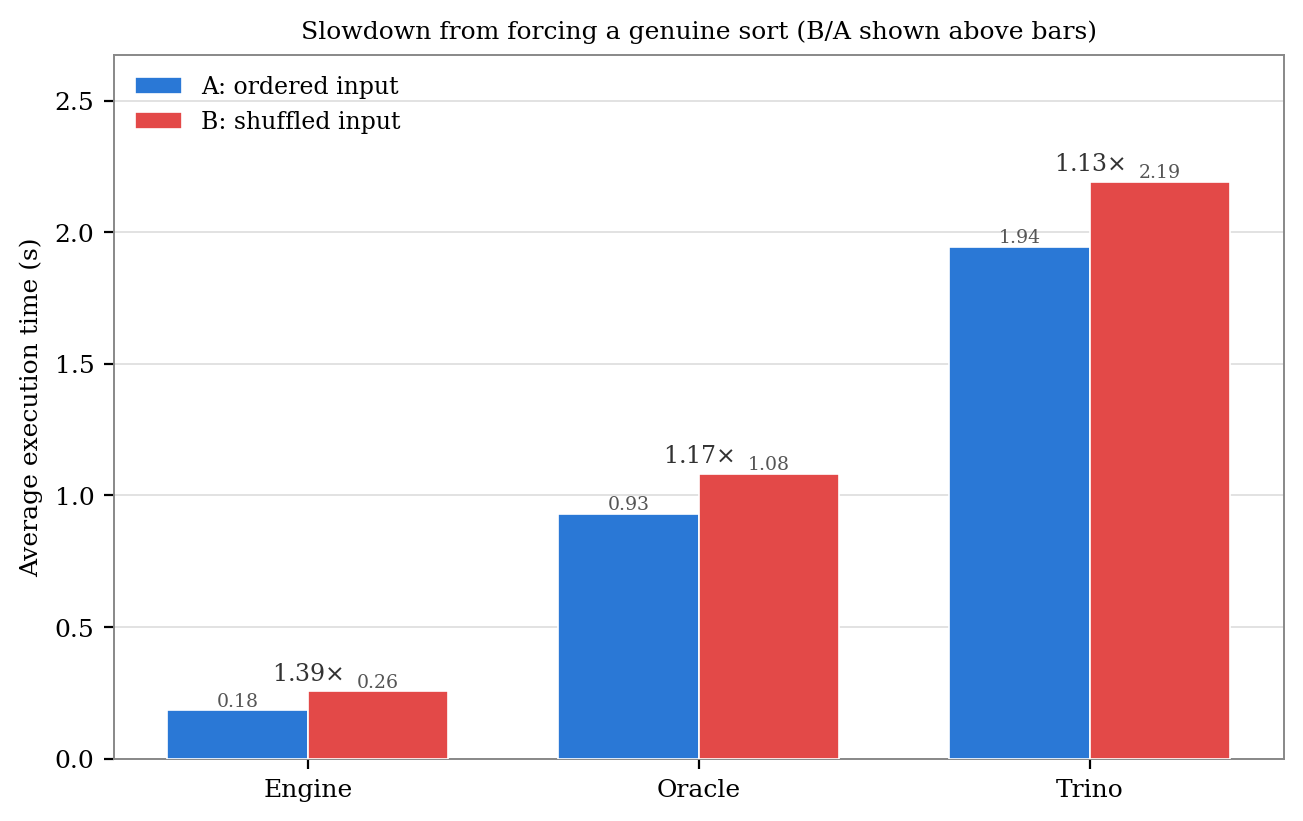
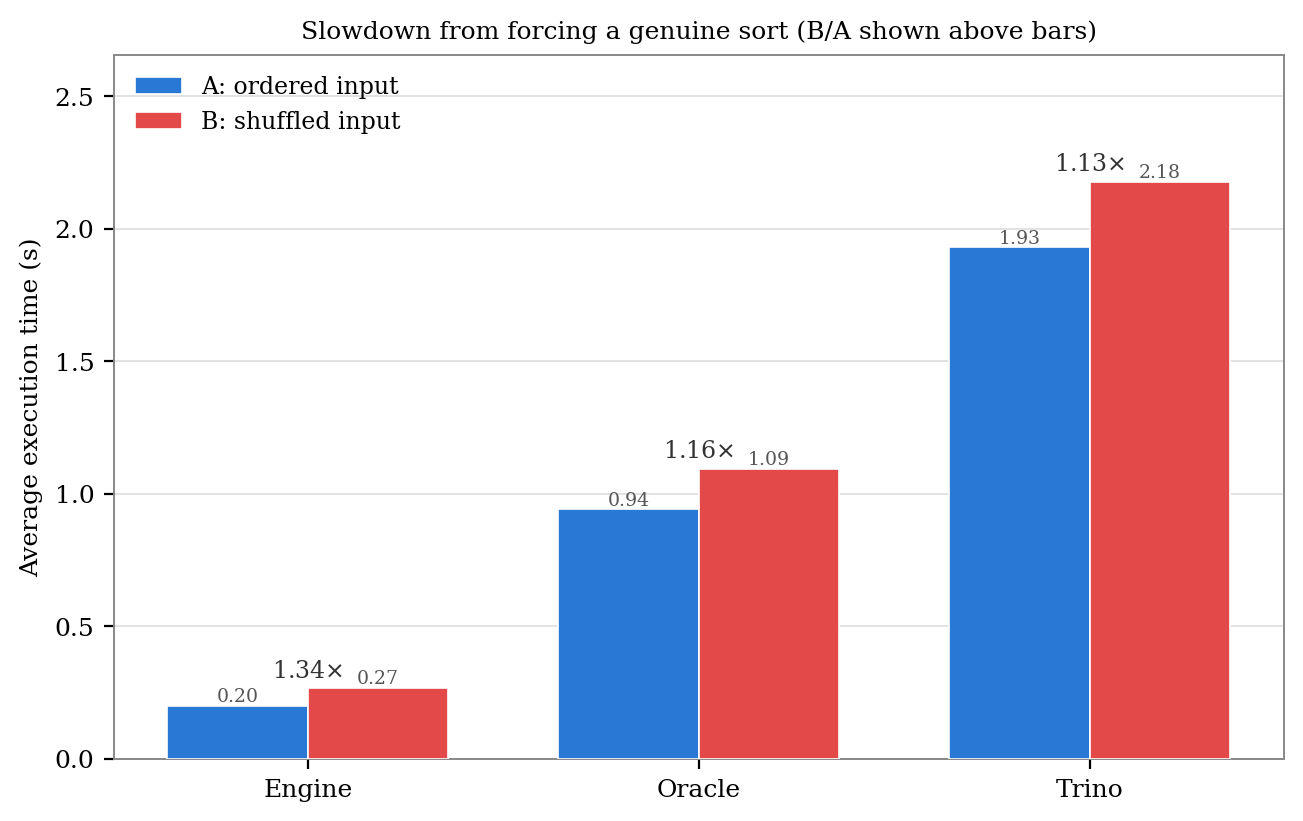
ch 1-3

diff --git a/thesis/Abstract.tex b/thesis/Abstract.tex
@@ -1,4 +1,4 @@
-SQL:2016 introduced the \texttt{MATCH\_RECOGNIZE} clause to support row pattern recognition, used to search for a specific pattern in ordered partitions of rows using regular expressions, which allows data analysts to detect patterns according to a user-defined pattern. This capability matters in many domains, such as financial monitoring, climate analysis, security logs, sensor analytics, and e-commerce, where significant information often consists of a sequence of events rather than an isolated record. Several database systems, including Oracle, Snowflake, Trino, and Apache Flink, now provide row pattern recognition, but Pandas lacks native support, so analysts often simulate \texttt{MATCH\_RECOGNIZE} with shifted columns, manual loops, and custom state management, which makes the code longer, less readable, and more error-prone. To close this gap, the proposed engine parses SQL-based \texttt{MATCH\_RECOGNIZE} queries from a string, constructs a structured query representation, validates the supported row-pattern clauses, translates pattern expressions into finite automata, and executes the resulting matcher over ordered DataFrame partitions, covering the evaluated Feature~R010-style scope: \texttt{PARTITION BY}, \texttt{ORDER BY}, \texttt{PATTERN}, \texttt{DEFINE}, \texttt{MEASURES}, skip policies, output modes, quantifiers, alternation, grouping, anchors, exclusions, \texttt{PERMUTE}, and selected navigation and aggregate functions. The system was evaluated through five methods: correctness against Trino and Oracle reference outputs, SQL:2016 feature coverage, usability, performance, and scalability. The cross-system benchmark used the Amazon UK Products~2023 catalog, from 100\,K-row prefixes up to the full 2.2-million-row dataset; a separate scalability test used the larger Amazon Reviews~2023 corpus, up to 227.9~million rows. The engine reproduced the reference outputs row-for-row in all thirty cross-system benchmark cells and recorded the lowest average execution time of the three compared systems (0.20\,s, versus 1.04\,s for Oracle and 1.98\,s for Trino). Its execution time and memory scaled almost linearly, and it stayed ahead of both databases all the way to 227.9~million rows. These results demonstrate that bringing \texttt{MATCH\_RECOGNIZE}-style functionality to Pandas can bridge SQL and Python workflows, making sequential data analysis more readable, portable, and productive.
+SQL:2016 introduced the \texttt{MATCH\_RECOGNIZE} clause to support row pattern recognition, used to search for a specific pattern in ordered partitions of rows using regular expressions, which allows data analysts to detect patterns according to a user-defined pattern. This capability matters in many domains, such as financial monitoring, climate analysis, security logs, sensor analytics, and e-commerce, where significant information often consists of a sequence of events rather than an isolated record. Several database systems, including Oracle, Snowflake, Trino, and Apache Flink, now provide row pattern recognition, but Pandas lacks native support, so analysts often simulate \texttt{MATCH\_RECOGNIZE} with shifted columns, manual loops, and custom state management, which makes the code longer, less readable, and more error-prone. To close this gap, the proposed engine parses SQL-based \texttt{MATCH\_RECOGNIZE} queries from a string, constructs a structured query representation, validates the supported row-pattern clauses, translates pattern expressions into finite automata, and executes the resulting matcher over ordered DataFrame partitions, covering the evaluated Feature~R010-style scope: \texttt{PARTITION BY}, \texttt{ORDER BY}, \texttt{PATTERN}, \texttt{DEFINE}, \texttt{MEASURES}, skip modes, output modes, quantifiers, alternation, grouping, anchors, exclusions, \texttt{PERMUTE}, and selected navigation and aggregate functions. The system was evaluated through five methods: correctness against Trino and Oracle reference outputs, SQL:2016 feature coverage, usability, performance, and scalability. The cross-system benchmark used the Amazon UK Products~2023 catalog, from 100\,K-row prefixes up to the full 2.2-million-row dataset; a separate scalability test used the larger Amazon Reviews~2023 corpus, up to 227.9~million rows. The engine reproduced the reference outputs row-for-row in all thirty cross-system benchmark cells and recorded the lowest average execution time of the three compared systems (0.20\,s, versus 1.04\,s for Oracle and 1.98\,s for Trino). Its execution time and memory scaled almost linearly, and it stayed ahead of both databases all the way to 227.9~million rows. These results demonstrate that bringing \texttt{MATCH\_RECOGNIZE}-style functionality to Pandas can bridge SQL and Python workflows, making sequential data analysis more readable, portable, and productive.
 
 \vspace{\baselineskip}
 \noindent\textbf{Keywords:} \texttt{MATCH\_RECOGNIZE}; Row Pattern Recognition; Pandas; SQL:2016; Finite Automata; Pattern Matching.

diff --git a/thesis/chapters/appendix_benchmark_tables.tex b/thesis/chapters/appendix_benchmark_tables.tex
@@ -504,9 +504,9 @@ only the sort cost is added.
 \textbf{System} & \textbf{A ordered (s)} & \textbf{B shuffled (s)}
   & \textbf{Slowdown} \\
 \midrule
-Proposed Pandas engine & 0.18 & 0.24 & $1.30\times$ \\
-Trino~473              & 1.94 & 2.19 & $1.13\times$ \\
-Oracle XE~21c          & 0.93 & 1.08 & $1.17\times$ \\
+Proposed Pandas engine & 0.20 & 0.27 & $1.34\times$ \\
+Trino~473              & 1.93 & 2.18 & $1.13\times$ \\
+Oracle XE~21c          & 0.94 & 1.09 & $1.16\times$ \\
 \bottomrule
 \end{tabular}
 \end{table}
@@ -518,7 +518,9 @@ Oracle XE~21c          & 0.93 & 1.08 & $1.17\times$ \\
 \caption{Average execution time by dataset size under ordered
   (Scenario~A, ``ord'') and shuffled (Scenario~B, ``shuf'') input, and
   the per-size slowdown, for each system (averaged over the five
-  pattern families).}
+  pattern families).  Cells near 0.1\,s are noisy; Oracle's 100\,K
+  reading ($0.87\times$) is run-to-run variance, not a real speedup
+  from shuffling.}
 \label{tab:ordering_by_size}
 \resizebox{\textwidth}{!}{%
 \begin{tabular}{rrrrrrrrrr}
@@ -531,12 +533,12 @@ Oracle XE~21c          & 0.93 & 1.08 & $1.17\times$ \\
 & \textbf{ord} & \textbf{shuf} & \textbf{slow}
 & \textbf{ord} & \textbf{shuf} & \textbf{slow} \\
 \midrule
-100{,}000 & 0.02 & 0.03 & 1.25$\times$ & 0.08 & 0.09 & 1.06$\times$ & 0.28 & 0.28 & 1.01$\times$ \\
-200{,}000 & 0.04 & 0.05 & 1.22$\times$ & 0.15 & 0.17 & 1.07$\times$ & 0.36 & 0.40 & 1.10$\times$ \\
-400{,}000 & 0.08 & 0.10 & 1.30$\times$ & 0.34 & 0.38 & 1.12$\times$ & 0.68 & 0.78 & 1.14$\times$ \\
-800{,}000 & 0.16 & 0.21 & 1.30$\times$ & 0.88 & 0.99 & 1.12$\times$ & 1.74 & 1.97 & 1.14$\times$ \\
-1{,}600{,}000 & 0.31 & 0.42 & 1.34$\times$ & 1.77 & 2.08 & 1.17$\times$ & 3.99 & 4.18 & 1.05$\times$ \\
-2{,}222{,}742 & 0.49 & 0.62 & 1.27$\times$ & 2.36 & 2.81 & 1.19$\times$ & 4.62 & 5.55 & 1.20$\times$ \\
+100{,}000 & 0.03 & 0.04 & 1.17$\times$ & 0.11 & 0.10 & 0.87$\times$ & 0.26 & 0.29 & 1.12$\times$ \\
+200{,}000 & 0.05 & 0.06 & 1.27$\times$ & 0.16 & 0.17 & 1.09$\times$ & 0.37 & 0.40 & 1.09$\times$ \\
+400{,}000 & 0.09 & 0.12 & 1.28$\times$ & 0.34 & 0.38 & 1.11$\times$ & 0.71 & 0.76 & 1.08$\times$ \\
+800{,}000 & 0.18 & 0.23 & 1.33$\times$ & 0.88 & 0.99 & 1.12$\times$ & 1.79 & 2.01 & 1.12$\times$ \\
+1{,}600{,}000 & 0.35 & 0.46 & 1.34$\times$ & 1.79 & 2.09 & 1.17$\times$ & 3.68 & 4.06 & 1.10$\times$ \\
+2{,}222{,}742 & 0.50 & 0.68 & 1.37$\times$ & 2.37 & 2.83 & 1.20$\times$ & 4.76 & 5.54 & 1.16$\times$ \\
 \bottomrule
 \end{tabular}}
 \end{table}
@@ -547,22 +549,22 @@ Oracle XE~21c          & 0.93 & 1.08 & $1.17\times$ \\
 \caption{Incremental sorting cost of the proposed engine by dataset
   size: Scenario~A (ordered) and~B (shuffled) times, their difference
   (the isolated sort cost), the same cost per row, and that cost
-  normalised by $n\log_2 n$.  Both the per-row cost and the
-  $n\log_2 n$-normalised cost stay within a narrow band across the
-  measured range, consistent with an $O(n\log n)$ ordering step whose
-  logarithmic factor changes little over these sizes.}
+  normalised by $n\log_2 n$.  The per-row cost drifts upward while the
+  $n\log_2 n$-normalised cost stays within a narrow band, consistent
+  with an $O(n\log n)$ ordering step whose logarithmic factor changes
+  little over these sizes.}
 \label{tab:sort_cost_by_size}
 \begin{tabular}{rrrrrr}
 \toprule
 \textbf{Size (rows)} & \textbf{A (s)} & \textbf{B (s)}
   & \textbf{Sort (ms)} & \textbf{ns/row} & \textbf{ns/$(n\log_2 n)$} \\
 \midrule
-100{,}000 & 0.023 & 0.029 & 5.8 & 58.4 & 3.52 \\
-200{,}000 & 0.041 & 0.049 & 8.8 & 44.2 & 2.51 \\
-400{,}000 & 0.077 & 0.100 & 23.0 & 57.4 & 3.09 \\
-800{,}000 & 0.157 & 0.205 & 47.9 & 59.8 & 3.05 \\
-1{,}600{,}000 & 0.314 & 0.421 & 107.1 & 67.0 & 3.25 \\
-2{,}222{,}742 & 0.489 & 0.623 & 134.3 & 60.4 & 2.87 \\
+100{,}000 & 0.031 & 0.036 & 5.3 & 53.2 & 3.20 \\
+200{,}000 & 0.050 & 0.064 & 13.4 & 67.2 & 3.82 \\
+400{,}000 & 0.092 & 0.118 & 25.5 & 63.9 & 3.43 \\
+800{,}000 & 0.176 & 0.233 & 57.6 & 72.0 & 3.67 \\
+1{,}600{,}000 & 0.347 & 0.463 & 116.3 & 72.7 & 3.53 \\
+2{,}222{,}742 & 0.497 & 0.682 & 184.6 & 83.1 & 3.94 \\
 \bottomrule
 \end{tabular}
 \end{table}
@@ -708,7 +710,7 @@ cell was checked against the engine's output.
 
 \begin{table}[htbp]
 \centering
-\caption{Stress-test throughput (million rows per second, size/mean-time) for the three systems, same run as Table~\ref{tab:stress_volume}.  Higher is better; the engine sustains 3.7--5.2\,M\,rows/s throughout.}
+\caption{Stress-test throughput (million rows per second, size/mean-time) for the three systems, same run as Table~\ref{tab:stress_volume}.  Higher is better; the engine's size averages hold 4.0--4.6\,M\,rows/s throughout, spanning 1.8\,M (\texttt{complex\_nested}) to 7.8\,M (\texttt{alternation}) per pattern.}
 \label{tab:stress_thr}
 \resizebox{\textwidth}{!}{%
 \begin{tabular}{@{}rccccc@{}}

diff --git a/thesis/chapters/ch2_background_concepts.tex b/thesis/chapters/ch2_background_concepts.tex
@@ -29,13 +29,6 @@ matching is therefore well suited to event-driven processes such as
 security monitoring, stock-price analysis, sensor-data analysis,
 fraud detection, and complex event processing~\cite{OracleMR}.
 
-Unlike traditional relational operations that focus on individual
-rows or aggregated values, pattern matching examines the temporal
-or logical ordering of data points to extract meaningful sequences.
-This capability is essential across many domains including financial
-market analysis, fraud detection, IoT sensor monitoring, and
-behavioral analytics.
-
 The important distinction is that the ``symbols'' in row-pattern
 recognition are not characters in a string.  They are data rows that
 become associated with pattern variables such as \texttt{A},
@@ -57,8 +50,7 @@ In the past, relational database systems were very good at set-based tasks like 
 % ................................
 
 \paragraph{Financial Market Analysis.}
-Detecting V-shaped price patterns---price decline followed by recovery---requires examining ordered sequences of price movements. For example, identifying stocks whose price troughs are successively higher, a ``higher-low'' pattern, signals a potential upward trend. The canonical example used throughout this thesis is the detection of such V-patterns in customer order data.
-~\cite{OracleMR}.
+Detecting V-shaped price patterns---price decline followed by recovery---requires examining ordered sequences of price movements. For example, identifying stocks whose price troughs are successively higher, a ``higher-low'' pattern, signals a potential upward trend. The canonical example used throughout this thesis is the detection of such V-patterns in customer order data~\cite{OracleMR}.
 
 \paragraph{Fraud Detection.}
 Credit card fraud can show up as certain patterns, like several small test charges before a big purchase, or transactions happening in places that are too far apart to be realistic. Writing these rules in SQL makes them easier to manage than using procedural code.~\cite{petkovic2022fraud}.
@@ -92,12 +84,6 @@ Trade-surveillance systems watch for signs of market manipulation, like ``layeri
 
 The SQL:2016 standard introduced \texttt{MATCH\_RECOGNIZE}~\cite{ISO2016SQL,iso2016}, which brings pattern matching across rows into SQL. The feature finds ordered sequences of rows where each part of the pattern is defined by a row condition, not just a character, and allows complex event sequences to be described in a clear, declarative way~\cite{winand2017sqlnew}. While it does not add new capabilities to the relational model since similar queries can be written with joins, window functions, recursion, or procedural code, it offers a simpler and more maintainable way to express sequence-based logic.
   
-
-At the time of writing, PostgreSQL~18 lists the SQL row-pattern features
-as unsupported, while DuckDB lists \texttt{MATCH\_RECOGNIZE} as planned
-work~\cite{postgresql18unsupported,duckdb2026roadmap,howe2020matchrecognize,findling2025bringing}.  This thesis aims
-to make declarative row-pattern matching possible in Pandas DataFrames
-and in-process Python analytics.
 
 The SQL standard distinguishes three optional features for row pattern
 recognition~\cite{winand_match_recognize}.  \textbf{Feature~R010}
@@ -262,6 +248,6 @@ The query groups rows by \texttt{customer\_id} and sorts them by \texttt{order\_
 \section{Chapter Summary}
 \label{sec:bg-summary}
 % ----------------------------------------------------------------
-This chapter explained sequential pattern matching as an analytical problem and showed why regular row-by-row predicates do not work well for many tasks involving ordered data. It also covered the main parts of SQL:2016 \texttt{MATCH\_RECOGNIZE}, such as partitioning, ordering, measures, output modes, skip policies, pattern definitions, and variable predicates.
+This chapter explained sequential pattern matching as an analytical problem and showed why regular row-by-row predicates do not work well for many tasks involving ordered data. It also covered the main parts of SQL:2016 \texttt{MATCH\_RECOGNIZE}, such as partitioning, ordering, measures, output modes, skip modes, pattern definitions, and variable predicates.
 
 The stock-price V-pattern example demonstrated how these components fit together in a full query and explained why this abstraction works well with automata-based execution. Chapter~\ref{chap:related} looks more closely at existing implementations, comparing their features, deployment options, and real-world limitations.

diff --git a/thesis/chapters/ch1_introduction.tex b/thesis/chapters/ch1_introduction.tex
@@ -157,7 +157,7 @@ database server.  Three objectives guide the work.
 
   \item \textbf{Support and verify useful row-pattern semantics.}  The
     target is the evaluated R010-style subset.  It includes the main
-    clauses, output modes, skip policies, and navigation functions.  Its
+    clauses, output and skip modes, and navigation functions.  Its
     pattern operators include quantifiers (\texttt{*}, \texttt{+},
     \texttt{?}, and \texttt{\{n,m\}}), alternation (\texttt{|}), grouping,
     anchors, exclusions (\texttt{\{-\ldots-\}}), and \texttt{PERMUTE}.
@@ -182,8 +182,8 @@ PATTERN (PROBE+ (TRANSFER | WITHDRAW){2,5} DRAIN)
 \paragraph{Contributions.}
 The thesis makes three contributions: an in-process Pandas engine, a general
 optimization layer, and a theoretical and empirical evaluation.
-Section~\ref{sec:related-contribution} defines them in detail and positions
-them against the related systems.
+Section~\ref{sec:related-contribution} breaks these into five concrete
+contributions and positions them against the related systems.
 
 \paragraph{Evidence at a glance.}
 The regression suite contains 548 automated test cases in 34
@@ -204,7 +204,8 @@ about $100\times$ the main dataset.  This test uses one core, 58\,GB, and a
 runs as 21c Enterprise Edition.  The engine and Oracle completed the full
 range.  Trino exceeded the limit on \texttt{complex\_nested} from 160~million
 rows.  Across the five row-local pattern families and completed cells, the
-engine remained close to linear and kept a $6$--$11\times$ time advantage.
+engine remained close to linear and kept a $3$--$5\times$ time advantage
+over Oracle~EE and $6$--$8\times$ over Trino.
 Chapter~\ref{chap:evaluation} reports the complete method, trade-offs, and
 limits.
 

diff --git a/thesis/chapters/ch3_related_work.tex b/thesis/chapters/ch3_related_work.tex
@@ -74,13 +74,11 @@ databricks2026matchrecognize}.
 \label{subsec:related-existing-overview}
 % ................................
 
-The SQL standard defines three optional features for row pattern
-recognition~\cite{ISO2021,michels2018new}.
-\textbf{Feature~R010} covers row pattern recognition in the
-\texttt{FROM} clause.  \textbf{Feature~R020} covers row patterns in
-\texttt{WINDOW} specifications, and \textbf{Feature~R030} covers full
-aggregate support.  These are separate optional features, not
-successive levels.  In practice, vendor documentation normally
+The SQL standard defines three optional row-pattern
+features---R010 (\texttt{FROM}-clause patterns), R020 (window
+patterns), and R030 (full aggregate
+support)---introduced in Section~\ref{sec:bg-match-recognize}.
+In practice, vendor documentation normally
 describes the supported syntax instead of declaring conformance by
 feature code.  Table~\ref{tab:engine-comparison} therefore describes
 the documented scope directly.  It does not claim that all systems
@@ -338,7 +336,7 @@ the items below state the delivered system, optimization, and evidence.
 \begin{enumerate}
   \item A \textbf{Pandas-native engine} for the evaluated SQL:2016
     R010-style subset.  It supports the main clauses, output modes,
-    skip policies, navigation functions, and aggregates.  Its pattern
+    skip modes, navigation functions, and aggregates.  Its pattern
     constructs include quantifiers, alternation, grouping, anchors,
     exclusions, and \texttt{PERMUTE}.  It runs in-process and needs no
     database server or cloud warehouse.
